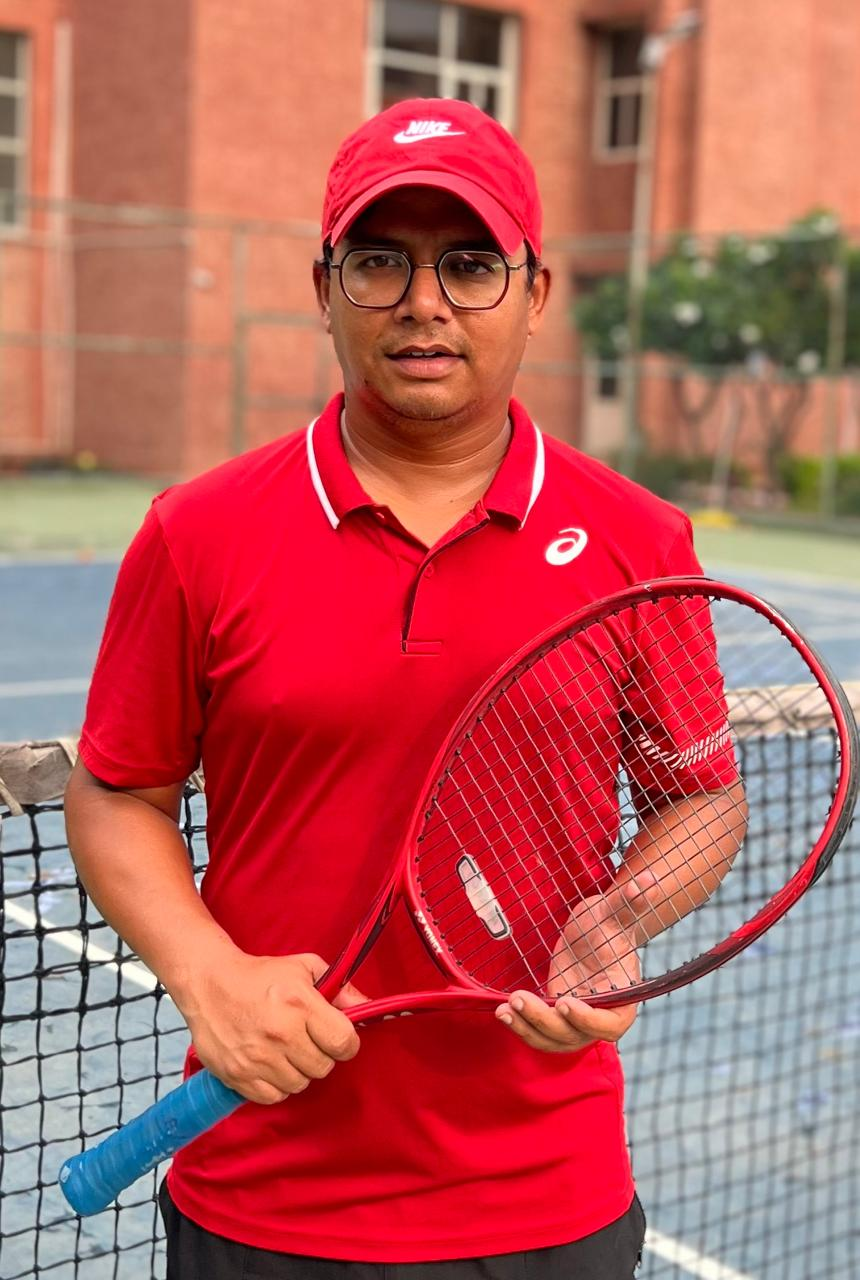
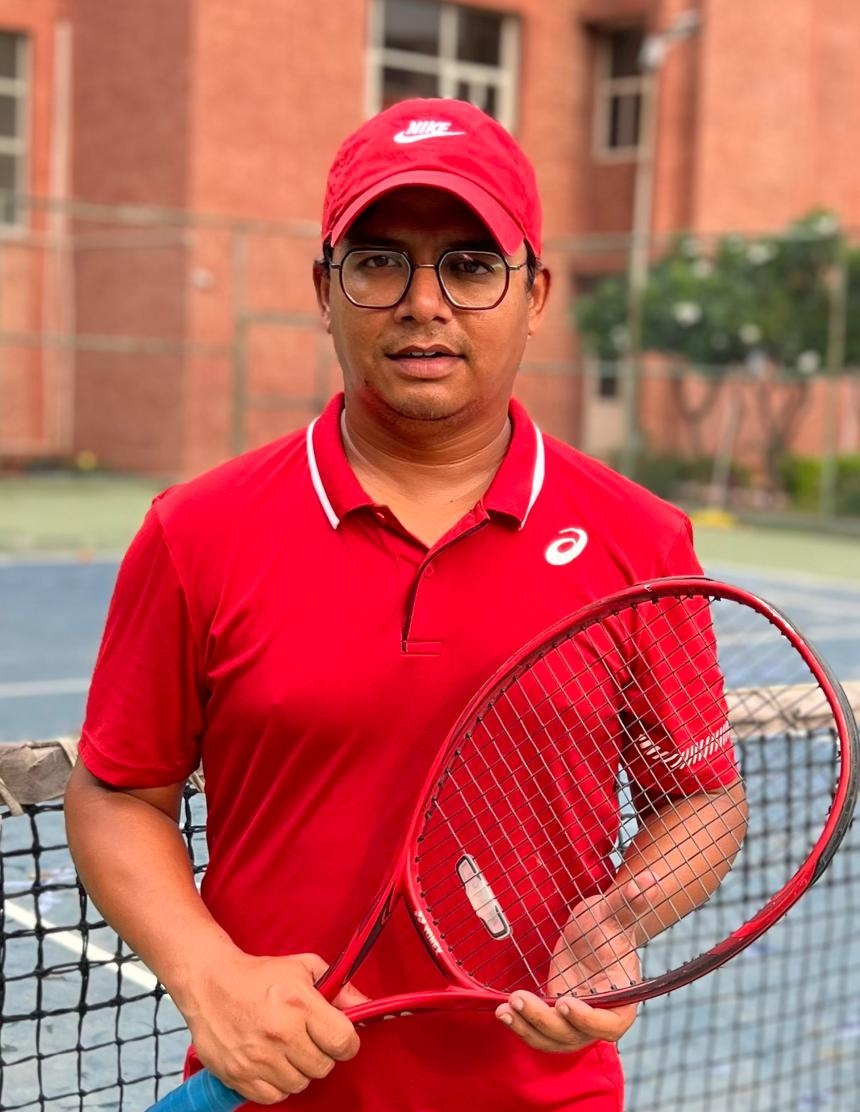
fix

diff --git a/src/components/CoachingTeam.jsx b/src/components/CoachingTeam.jsx
@@ -80,11 +80,24 @@ function CoachingTeam() {
           className="bg-white rounded-3xl shadow-lg overflow-hidden mb-20 flex flex-col md:flex-row items-stretch"
         >
           {/* Image */}
+          {/* Image */}
           <div className="md:w-1/2 w-full flex justify-center bg-black/5 overflow-hidden">
             <img
               src={founder.image}
               alt={founder.name}
-              className="max-h-[700px] w-full object-cover object-[center_20%] md:rounded-l-3xl transition-transform duration-700 hover:scale-[1.03]"
+              className="
+      w-full 
+      h-full 
+      max-h-[700px] 
+      object-cover 
+      object-[center_35%]  /* Crop from bottom on mobile */
+      sm:object-[center_25%]  /* Slightly less crop on small tablets */
+      md:object-[center_20%]  /* Subtle crop on desktop */
+      md:rounded-l-3xl 
+      transition-transform 
+      duration-700 
+      hover:scale-[1.03]
+    "
             />
           </div>
 

diff --git a/src/components/Hero.jsx b/src/components/Hero.jsx
@@ -6,7 +6,7 @@ function Hero() {
   return (
     <section
       id="hero"
-      className="relative h-screen flex items-center justify-center text-center overflow-hidden pt-20 sm:pt-24"
+      className="relative min-h-screen  flex items-center justify-center text-center pt-24 sm:pt-28"
     >
       {/* 🎾 Background image */}
       <div
